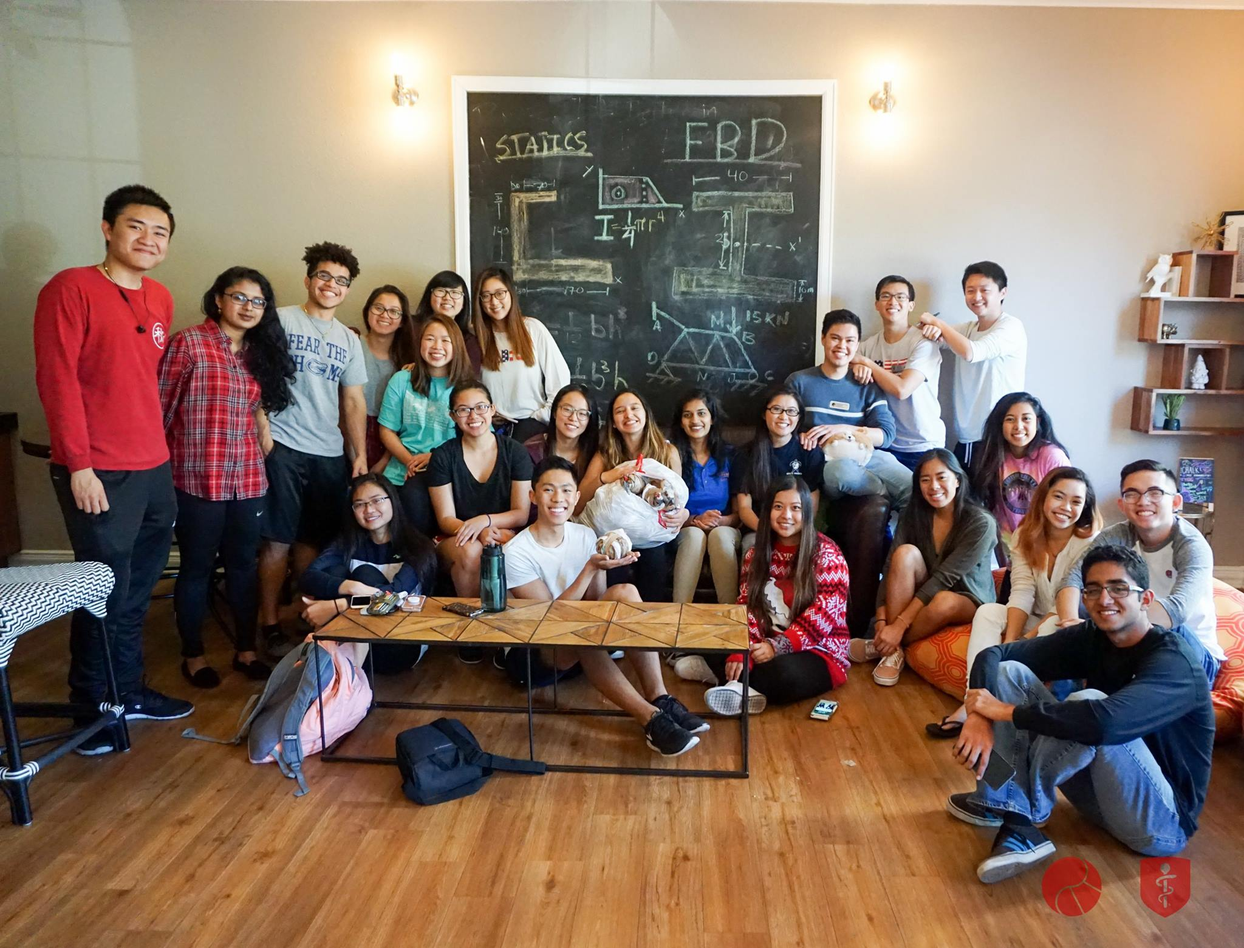
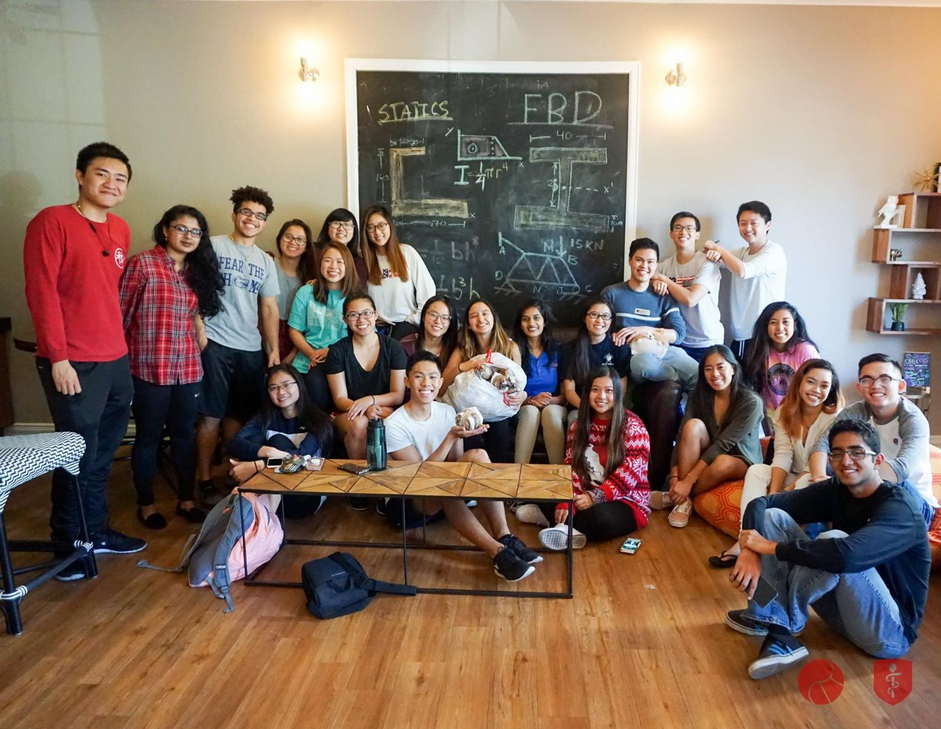
Made pictures on homepage even, added gradient to about page, fixed spacing on calendar page

diff --git a/client/src/pages/Home.jsx b/client/src/pages/Home.jsx
@@ -1,12 +1,15 @@
 import React, { Component } from 'react'
 import {Link} from 'react-router-dom';
 import image1 from '../images/heal_image1.jpg'
-import image2 from '../images/heal_image2.jpg'
+import image2 from '../images/heal_image2.jpeg'
 import image3 from '../images/heal_image3.jpg'
 import image4 from '../images/heal_image4.jpg'
 import image5 from '../images/heal_image5.jpg'
-import service from '../images/service.jpg'
-import leadership from '../images/leadership.png'
+import image6 from '../images/heal_image6.jpeg'
+import image9 from '../images/heal_image9.jpg'
+import image10 from '../images/heal_image10.jpeg'
+import image11 from '../images/heal_image11.jpeg'
+import image12 from '../images/heal_image12.jpeg'
 import ohana from '../images/ohana.jpg'
 import prehealth from '../images/prehealth.png'
 
@@ -41,21 +44,28 @@ class Home extends Component {
                         </Link>
                     </div>
                 </div>
-                <div class=" p-8 grid grid-flow-row grid-cols-3 justify-center px-4">
+                <div class=" p-8 grid grid-flow-row grid-cols-4 justify-center px-0">
                 <div class="">
-                    <img src={leadership} class=""/>
-                    <img src={ohana}/>  
-                    <img src={image4}/>                 
+                    <img src={image9} class=""/>
+                    <img src={image6}/>  
+                         
                 </div>
                 <div class="">
                     <img src={image3}/>
-                    <img src={image1}/>          
-                    <img src={image5}/>                   
+                    <img src={image10}/>          
+                                 
+                </div>
+                <div>
+                <img src={image11} class="w-full"/>
+                <img src={prehealth}/>
+         
                 </div>
                 <div>
                 <img src={image2} class="w-full"/>
-                <img src={prehealth}/>
+                <img src={image12}/>
+         
                 </div>
+               
                
                
                

diff --git a/client/src/pages/Calendar.jsx b/client/src/pages/Calendar.jsx
@@ -4,7 +4,7 @@ class Calendar extends Component {
     render() {
         return (
             <div>
-                <div class="pt-32 flex justify-center items-center h-5/6">
+                <div class="pt-24 py-8 flex justify-center items-center h-5/6">
                 <iframe src="https://calendar.google.com/calendar/embed?height=600&amp;wkst=1&amp;bgcolor=%23ffb9a7&amp;ctz=America%2FNew_York&amp;src=N212ZW5mNjU5b2o3a2IyMzU0cGdtbDA5MWtAZ3JvdXAuY2FsZW5kYXIuZ29vZ2xlLmNvbQ&amp;color=%239E69AF&amp;showCalendars=0" style={{border:"solid 1px #777"}} width="800" height="600" frameborder="0" scrolling="yes"></iframe>
               
                 </div>     

diff --git a/client/src/pages/About.jsx b/client/src/pages/About.jsx
@@ -7,7 +7,7 @@ import prehealth from '../images/prehealth.png'
 class About extends Component {
     render() {
         return (
-            <div class="pt-20 xl:bg-light-peach">
+            <div class="pt-20 xl:bg-gradient-to-t from-light-peach to-teal">
                 <div class="border-transparent xl:border-r-2 xl:bg-white xl:border-l-2 xl:border-b-2 p-10 m-auto xl:w-8/12">
                     <div class="m-4">
                         <div class="border-8 border-black text-center text-5xl p-6 w-9/12 xl:w-10/12 m-auto font-bold">

diff --git a/client/src/pages/Gallery.jsx b/client/src/pages/Gallery.jsx
@@ -4,7 +4,7 @@ import ohana from '../images/ohana.jpg'
 class Gallery extends Component {
     render() {
         return (
-            <div class="bg-gradient-to-tl from-light-peach to-teal h-auto p-28">
+            <div class="xl:bg-gradient-to-tl from-light-peach to-teal h-auto p-28">
                 <div class=" text-5xl p-6 w-10/12 mb-4 m-auto font-bold">
                     <h2 class="italic tracking-wider "> GALLERY </h2>
                 </div>

diff --git a/client/tailwind.config.js b/client/tailwind.config.js
@@ -38,6 +38,7 @@ module.exports = {
       'dark-teal': '#0d2f2f',
       'peach':'#ffb9a7',
       'light-peach':'#ffe0cf',
+      'very-light-peach':'#fef1ed',
       'mint-green':'#bae9d0'
      })
   },
